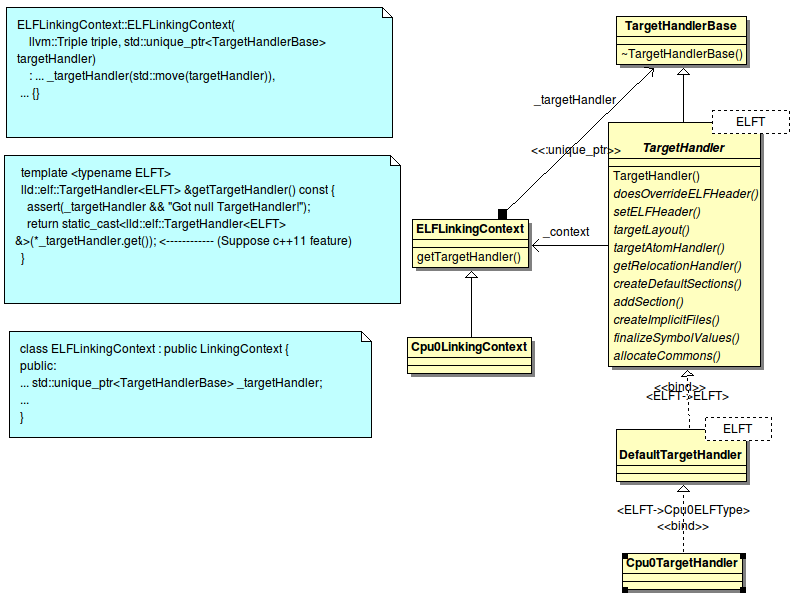
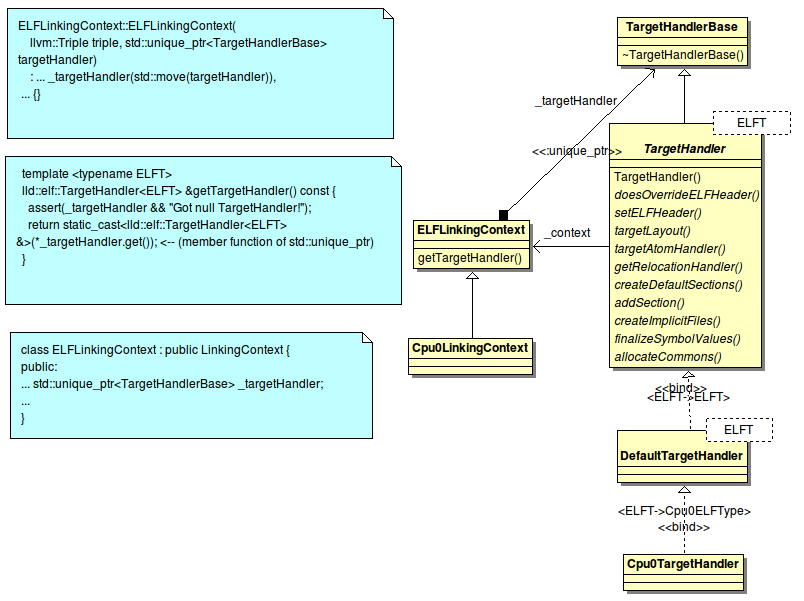
lld.rst documentation

diff --git a/docs/BackendTutorial/source/lld.rst b/docs/BackendTutorial/source/lld.rst
@@ -599,7 +599,7 @@ The Cpu0LinkingContext constructor will create it's ELFLinkingContext part.
 The std::unique_ptr came from c++11 standard.
 The unique_ptr objects automatically delete the object they manage (using a 
 deleter) as soon as they themselves are destroyed. Just like the Singlelten 
-pattern in Design Pattern book or Smart Pointers in Effective C++ book.
+pattern in Design Pattern book or Smart Pointers in Effective C++ book. [#]_
 
 .. _lld-f5: 
 .. figure:: ../Fig/lld/5.png
@@ -615,6 +615,22 @@ object from Cpu0LinkingContext or Cpu0RelocationHandler rely on
 LinkingContext::getTargetHandler() function. As :num:`Figure #lld-f5` depicted, 
 the unique_ptr point to Cpu0TargetHandler will be saved in LinkingContext 
 contructor function.
+
+.. note:: std::unique_ptr::get() [#]_
+
+  pointer get() const noexcept;
+
+  Get pointer
+  Returns the stored pointer. 
+
+
+.. note:: std::move() [#]_
+
+  for example:
+    std::string bar = "bar-string";
+    std::move(bar);
+
+    bar is null after std::move(bar);
 
 
 Dynamic linker 
@@ -739,4 +755,11 @@ We program it, design it and run it on real world.
 .. [#] http://lld.llvm.org/
 
 .. [#] http://lld.llvm.org/getting_started.html#on-unix-like-systems
+
+.. [#] http://www.cplusplus.com/reference/memory/unique_ptr/
+
+.. [#] http://www.cplusplus.com/reference/memory/unique_ptr/get/
+
+.. [#] http://www.cplusplus.com/reference/utility/move/
+
 
